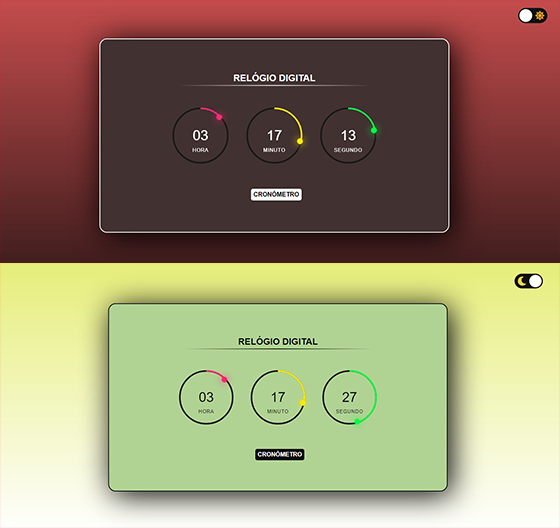
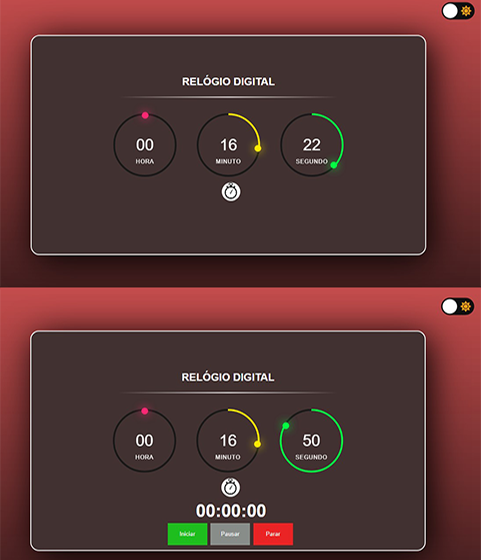
Ajuste final no layout do botão do cronômetro e atualização do README.

diff --git a/style.css b/style.css
@@ -4,6 +4,7 @@
     --secondary-color: #413131;/*var(--secondary-color)*/
     --tertiary-color: white; /*var(--tertiary-color)*/
     --quaternary-color: black; /*var(--quaternary-color)*/
+    --quinary-color: rgb(255, 255, 255); /*var(--quinary-color)*/
 }
 
 .dark-theme{
@@ -11,6 +12,7 @@
     --secondary-color: rgb(176, 211, 148);
     --tertiary-color: rgb(14, 13, 13);
     --quaternary-color: white;
+    --quinary-color: rgba(255, 255, 255, 0);
 }
 
 
@@ -107,7 +109,7 @@ hr {
     position: absolute; 
     top: 50%; 
     left: 50%;
-    transform: translate(-50%, -6500%);
+    transform: translate(-50%, -5500%);
     background-image: linear-gradient(to right, transparent, var(--tertiary-color), transparent);
     z-index: 15;
 }
@@ -213,11 +215,12 @@ hr {
     align-items: flex-start;
     flex-wrap: wrap;
     position: absolute;
+    top: -60px;
 }
 
 .btn-label {
     display: flex;
-    width: 250px;
+    width: 300px;
 }
 
 
@@ -226,17 +229,13 @@ hr {
 }
 
 .label-crono {
-    background: var(--tertiary-color);
-    color: var(--quaternary-color);
+    background: var(--quinary-color);
     height: 42px;
     width: 42px;
     display: flex;
-    align-items: center;
-    justify-content: center;
-    font-weight: bold;
     position: relative;
     left: 35px;
-    top: -18px;
+    top: -10px;
     border-radius: 50%;
 
 }
@@ -244,15 +243,14 @@ hr {
 .img-crono {
     height: 40px;
     display: flex;
-    position: absolute;
+    position: relative;
     top: -1px;
-    left: px;
 
 }
 
 .label-crono:hover{
     cursor: pointer;
-    box-shadow: 5px 0px 9px #f8f8f5;
+    box-shadow: 0px 0px 9px #f8f8f5;
 }
 
 button {
@@ -273,7 +271,6 @@ button:hover {
     font-size: 40px;
     color: var(--tertiary-color);
     position: relative;
-    margin-bottom: 5px;
     right: 23px;
  
 }

diff --git a/index.html b/index.html
@@ -51,8 +51,9 @@
         <input type="checkbox" name="" class="check-input" id="crono">
         <div class="checkbox-label">
             <div class="btn-label">
-                <label for="crono" class="label-crono" ><img class="img-crono" src="./icon-cronometro.png" alt=""></label>
-                
+                <label for="crono" class="label-crono" >
+                    <img class="img-crono" src="./icon-cronometro.png" alt="">
+                </label>                
             </div>
             <div class="open-crono">
                 <h3 class="timer-crono" id="counter">00:00:00</h3>
